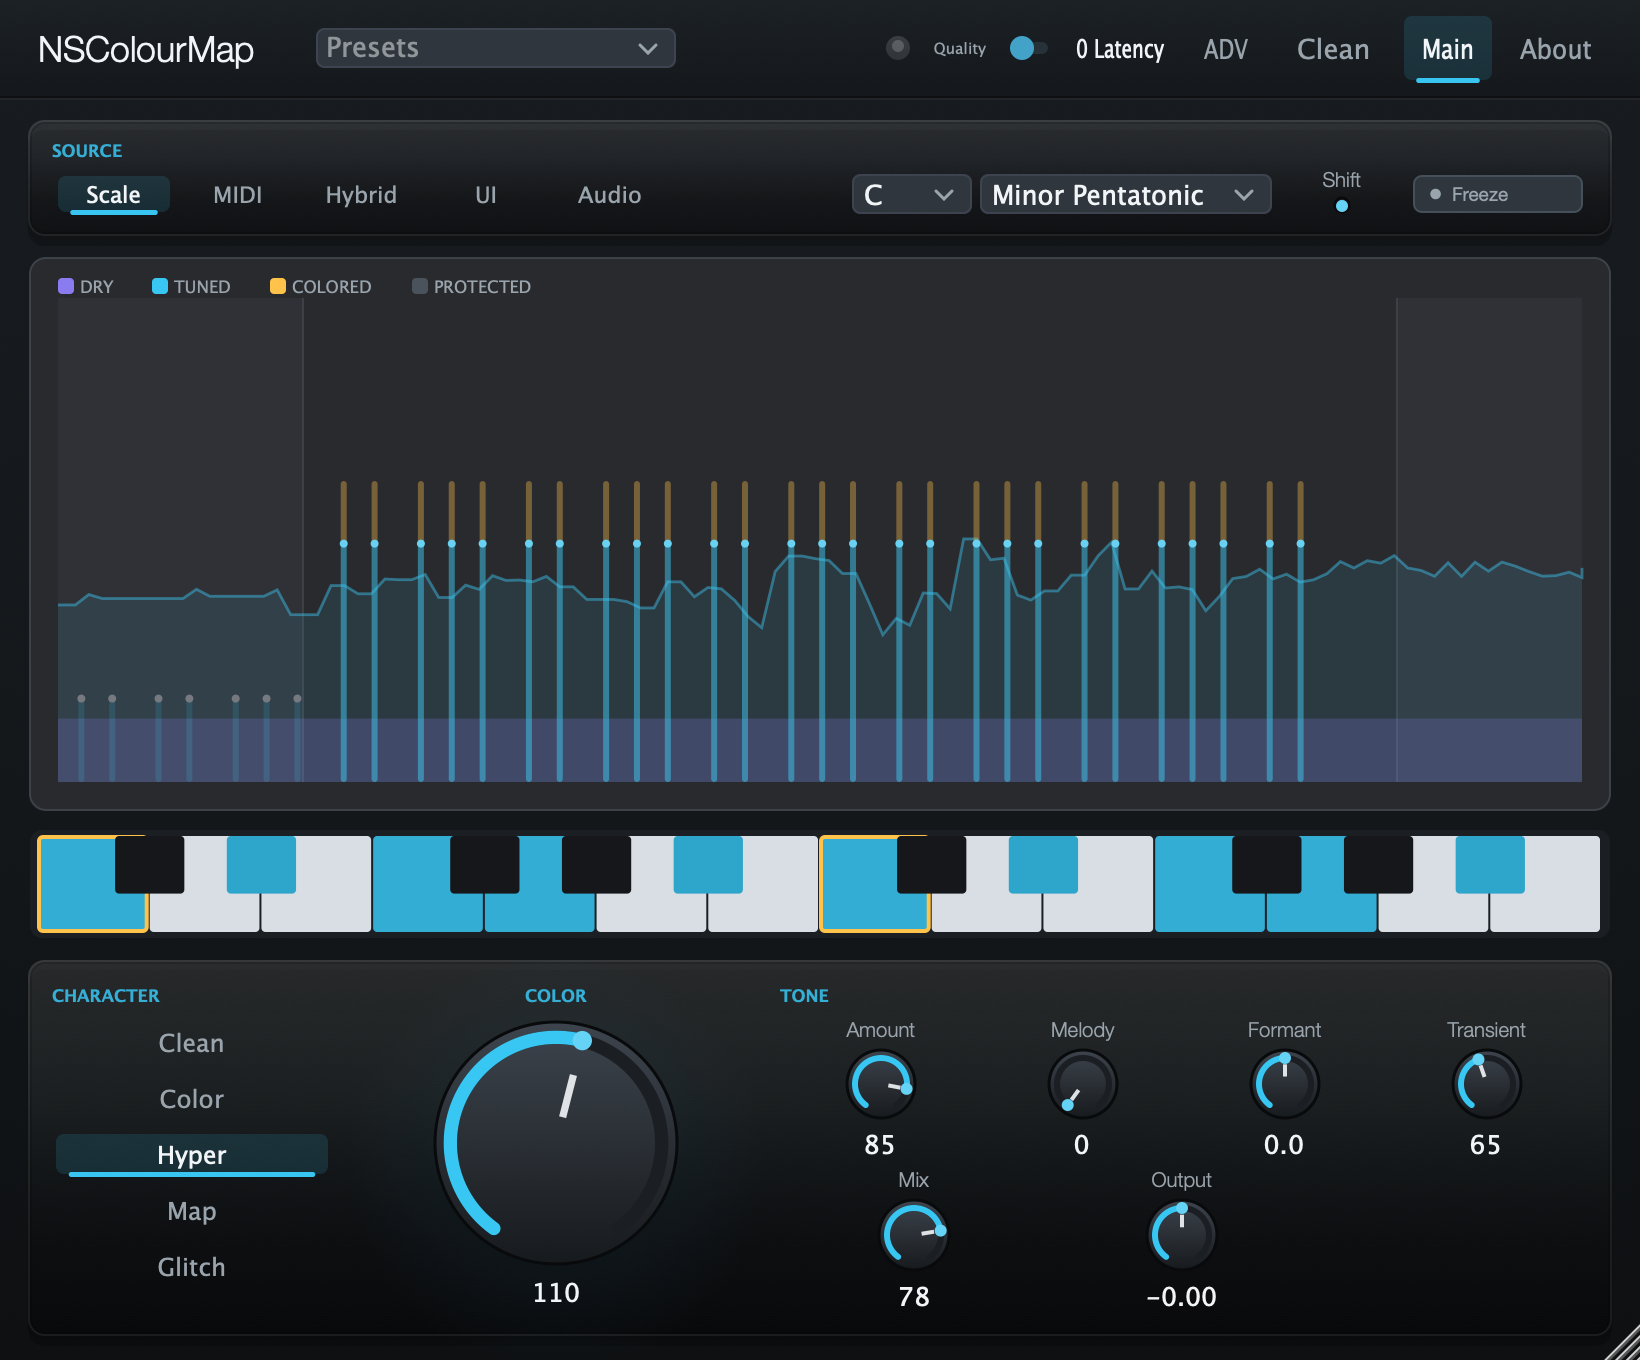
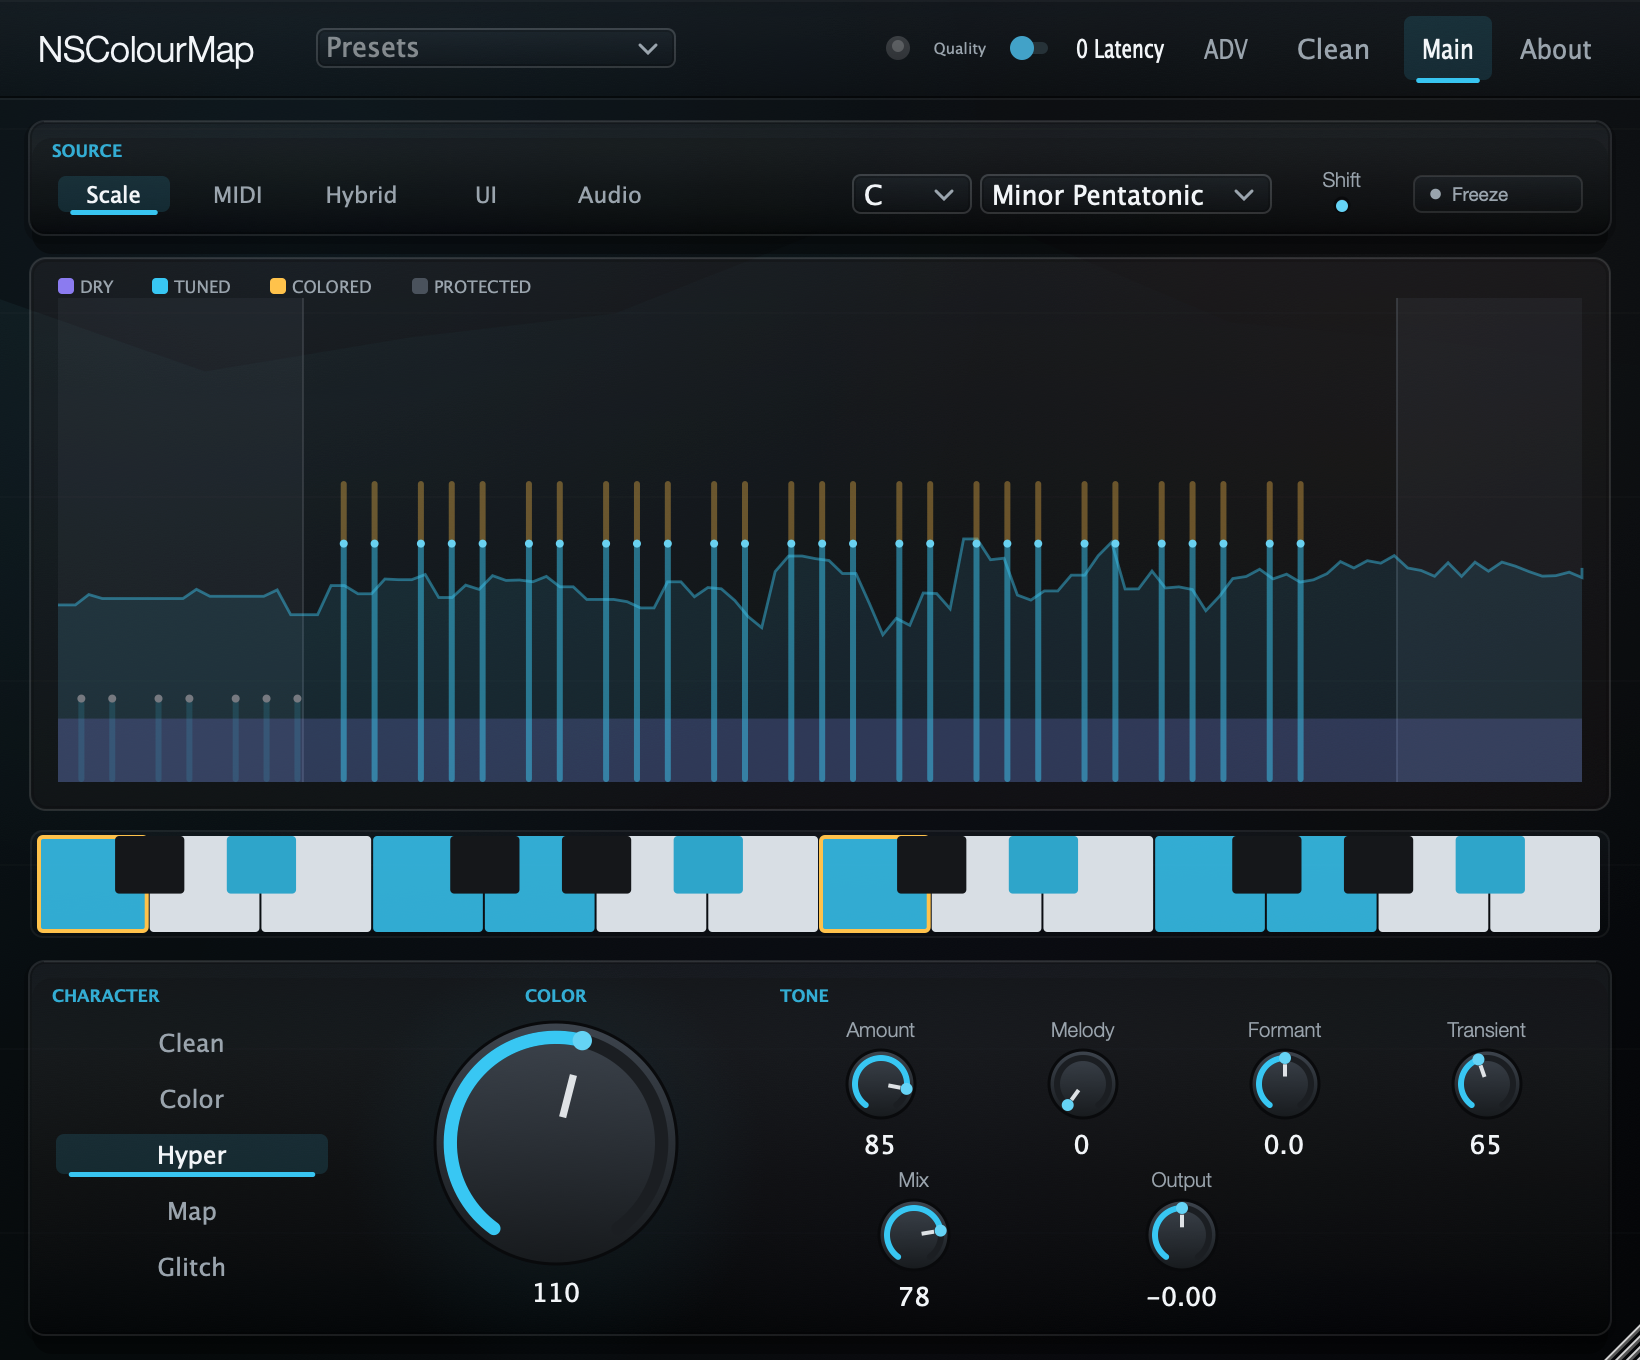
feat: modernize glass UI backdrop
Glass panels now sit over a restrained dark wallpaper backdrop with layered translucent material, softer depth shadows, and lighter edge treatment instead of the older flat white-gradient look. README screenshots are regenerated from the current editor.

Version 0.8.15.

diff --git a/Source/PluginEditor.cpp b/Source/PluginEditor.cpp
@@ -9,11 +9,11 @@
 
 namespace
 {
-const juce::Colour background  { 0xff15171a };
-const juce::Colour panel       { 0xff24282d };
-const juce::Colour panelLight  { 0xff30363d };
-const juce::Colour glassEdge   { 0x2effffff };
-const juce::Colour glassShadow { 0x4a000000 };
+const juce::Colour background  { 0xff0b0e11 };
+const juce::Colour panel       { 0xff1b2026 };
+const juce::Colour panelLight  { 0xff2b333d };
+const juce::Colour glassEdge   { 0x3effffff };
+const juce::Colour glassShadow { 0x7a000000 };
 const juce::Colour text        { 0xfff2f5f8 };
 const juce::Colour mutedText   { 0xff9aa4ad };
 const juce::Colour accent      { 0xff38c7f3 }; // TUNED (cyan)
@@ -53,30 +53,86 @@ void setChoice (juce::AudioProcessorValueTreeState& p, const char* id, int index
 
 float midiHz (float note) { return 440.0f * std::pow (2.0f, (note - 69.0f) / 12.0f); }
 
+void drawWallpaperBackdrop (juce::Graphics& g, juce::Rectangle<float> r)
+{
+    juce::ColourGradient base (juce::Colour { 0xff11161bu }, r.getX(), r.getY(),
+                               juce::Colour { 0xff050709u }, r.getX(), r.getBottom(), false);
+    base.addColour (0.44, juce::Colour { 0xff0b1015u });
+    base.addColour (0.78, juce::Colour { 0xff07090cu });
+    g.setGradientFill (base);
+    g.fillRect (r);
+
+    auto radial = [&] (juce::Colour c, float x, float y, float radius, float alpha)
+    {
+        juce::ColourGradient grad (c.withAlpha (alpha), x, y,
+                                   c.withAlpha (0.0f), x + radius, y - radius * 0.25f, true);
+        g.setGradientFill (grad);
+        g.fillEllipse (juce::Rectangle<float> (radius * 2.0f, radius * 2.0f).withCentre ({ x, y }));
+    };
+
+    radial (juce::Colour { 0xff2b5f72u }, r.getX() + r.getWidth() * 0.18f, r.getY() + r.getHeight() * 0.16f, r.getWidth() * 0.42f, 0.20f);
+    radial (juce::Colour { 0xff62432du }, r.getX() + r.getWidth() * 0.84f, r.getY() + r.getHeight() * 0.30f, r.getWidth() * 0.34f, 0.13f);
+    radial (juce::Colour { 0xff5d4d84u }, r.getX() + r.getWidth() * 0.58f, r.getY() + r.getHeight() * 0.88f, r.getWidth() * 0.48f, 0.10f);
+
+    juce::Path ribbon;
+    const float top = r.getY() + r.getHeight() * 0.22f;
+    ribbon.startNewSubPath (r.getX() - 40.0f, top);
+    for (int i = 0; i <= 8; ++i)
+    {
+        const float t = (float) i / 8.0f;
+        const float x = r.getX() + r.getWidth() * t;
+        const float y = top + std::sin (t * juce::MathConstants<float>::twoPi * 1.35f) * 34.0f
+                            + std::sin (t * juce::MathConstants<float>::twoPi * 3.1f) * 10.0f;
+        ribbon.lineTo (x, y);
+    }
+    ribbon.lineTo (r.getRight() + 40.0f, r.getBottom() + 40.0f);
+    ribbon.lineTo (r.getX() - 40.0f, r.getBottom() + 40.0f);
+    ribbon.closeSubPath();
+
+    juce::ColourGradient veil (juce::Colour { 0x145ec8d8u }, r.getX(), top,
+                               juce::Colour { 0x03000000u }, r.getRight(), r.getBottom(), false);
+    g.setGradientFill (veil);
+    g.fillPath (ribbon);
+
+    g.setColour (juce::Colours::white.withAlpha (0.018f));
+    for (int i = 0; i < 10; ++i)
+    {
+        const float y = r.getY() + 64.0f + (float) i * 92.0f;
+        g.drawHorizontalLine (juce::roundToInt (y), r.getX(), r.getRight());
+    }
+
+    g.setColour (juce::Colours::black.withAlpha (0.30f));
+    g.fillRect (r);
+}
+
 void drawLiquidPanel (juce::Graphics& g, juce::Rectangle<float> r, float radius = 8.0f)
 {
-    g.setColour (glassShadow.withAlpha (0.22f));
-    g.fillRoundedRectangle (r.translated (0.0f, 5.0f), radius);
-    g.setColour (juce::Colours::black.withAlpha (0.08f));
-    g.fillRoundedRectangle (r.expanded (1.0f).translated (0.0f, 1.0f), radius + 1.0f);
+    g.setColour (glassShadow.withAlpha (0.34f));
+    g.fillRoundedRectangle (r.translated (0.0f, 9.0f).expanded (-2.0f, 0.0f), radius + 2.0f);
+    g.setColour (juce::Colours::black.withAlpha (0.18f));
+    g.fillRoundedRectangle (r.expanded (2.0f).translated (0.0f, 2.0f), radius + 2.0f);
 
-    juce::ColourGradient material (juce::Colour { 0x18ffffffu }, r.getX(), r.getY(),
-                                   juce::Colour { 0x12000000u }, r.getX(), r.getBottom(), false);
-    material.addColour (0.34, juce::Colour { 0x1a8d99a3u });
-    material.addColour (0.74, juce::Colour { 0x1015171au });
+    juce::ColourGradient material (juce::Colour { 0x2a27313au }, r.getX(), r.getY(),
+                                   juce::Colour { 0x26101419u }, r.getX(), r.getBottom(), false);
+    material.addColour (0.22, juce::Colour { 0x203a4650u });
+    material.addColour (0.58, juce::Colour { 0x16161d23u });
+    material.addColour (1.0,  juce::Colour { 0x3005080bu });
     g.setGradientFill (material);
     g.fillRoundedRectangle (r, radius);
 
     const auto inner = r.reduced (1.0f);
-    juce::ColourGradient depth (juce::Colours::white.withAlpha (0.012f), inner.getX(), inner.getY(),
-                                juce::Colours::black.withAlpha (0.055f), inner.getX(), inner.getBottom(), false);
+    juce::ColourGradient depth (juce::Colours::white.withAlpha (0.040f), inner.getX(), inner.getY(),
+                                juce::Colours::black.withAlpha (0.14f), inner.getX(), inner.getBottom(), false);
     g.setGradientFill (depth);
     g.fillRoundedRectangle (inner, radius - 1.0f);
 
-    g.setColour (juce::Colours::white.withAlpha (0.070f));
+    g.setColour (juce::Colours::white.withAlpha (0.085f));
     g.drawRoundedRectangle (r.reduced (0.5f), radius, 1.0f);
 
-    g.setColour (juce::Colours::black.withAlpha (0.16f));
+    g.setColour (juce::Colours::white.withAlpha (0.060f));
+    g.drawLine (r.getX() + radius, r.getY() + 1.0f, r.getRight() - radius, r.getY() + 1.0f, 1.0f);
+
+    g.setColour (juce::Colours::black.withAlpha (0.22f));
     g.drawRoundedRectangle (r.reduced (1.5f), radius - 1.0f, 1.0f);
 }
 } // namespace
@@ -133,10 +189,14 @@ void NSColourMapLookAndFeel::drawComboBox (juce::Graphics& g, int width, int hei
                                           int, int, int, int, juce::ComboBox&)
 {
     const auto bounds = juce::Rectangle<float> (0.0f, 0.0f, (float) width, (float) height);
-    g.setColour (panelLight);
+    juce::ColourGradient fill (juce::Colour { 0x42394752u }, bounds.getX(), bounds.getY(),
+                               juce::Colour { 0x2b161b21u }, bounds.getX(), bounds.getBottom(), false);
+    g.setGradientFill (fill);
     g.fillRoundedRectangle (bounds, 4.0f);
-    g.setColour (juce::Colour { 0xff3d4450u });
+    g.setColour (juce::Colours::white.withAlpha (0.14f));
     g.drawRoundedRectangle (bounds.reduced (0.5f), 4.0f, 1.0f);
+    g.setColour (juce::Colours::black.withAlpha (0.18f));
+    g.drawRoundedRectangle (bounds.reduced (1.5f), 3.0f, 1.0f);
 
     const float cx = (float) width - 14.0f;
     const float cy = (float) height * 0.5f;
@@ -210,10 +270,16 @@ void NSColourMapLookAndFeel::drawToggleButton (juce::Graphics& g, juce::ToggleBu
     float hov = highlighted ? 1.0f : 0.0f;
     if (auto* at = dynamic_cast<AnimatedToggle*> (&button)) { sel = at->sel; hov = at->hover; }
 
-    const auto base = panelLight.brighter (0.1f * hov);
-    g.setColour (base.overlaidWith (accent.withAlpha (0.22f * sel)));
+    juce::ColourGradient base (juce::Colour { 0x3a34404au }.brighter (0.08f * hov), bounds.getX(), bounds.getY(),
+                               juce::Colour { 0x24101418u }, bounds.getX(), bounds.getBottom(), false);
+    g.setGradientFill (base);
     g.fillRoundedRectangle (bounds, 4.0f);
-    g.setColour (juce::Colour { 0xff46505au }.overlaidWith (accent.withAlpha (sel)));
+    if (sel > 0.001f)
+    {
+        g.setColour (accent.withAlpha (0.14f * sel));
+        g.fillRoundedRectangle (bounds.reduced (1.0f), 3.5f);
+    }
+    g.setColour (juce::Colours::white.withAlpha (0.11f + 0.16f * sel));
     g.drawRoundedRectangle (bounds, 4.0f, 1.0f + 0.8f * sel);
 
     // Tick dot grows + brightens as it turns on.
@@ -254,10 +320,15 @@ float VisualizerView::freqToX (float hz, juce::Rectangle<float> plot) const
 void VisualizerView::paint (juce::Graphics& g)
 {
     const auto bounds = getLocalBounds().toFloat().reduced (1.0f);
-    g.setColour (panel);
+    juce::ColourGradient glass (juce::Colour { 0x382a323au }, bounds.getX(), bounds.getY(),
+                                juce::Colour { 0x24101418u }, bounds.getX(), bounds.getBottom(), false);
+    glass.addColour (0.45, juce::Colour { 0x20202a32u });
+    g.setGradientFill (glass);
     g.fillRoundedRectangle (bounds, 8.0f);
-    g.setColour (juce::Colour { 0xff3a4149u });
+    g.setColour (juce::Colours::white.withAlpha (0.12f));
     g.drawRoundedRectangle (bounds, 8.0f, 1.0f);
+    g.setColour (juce::Colours::black.withAlpha (0.20f));
+    g.drawRoundedRectangle (bounds.reduced (1.5f), 7.0f, 1.0f);
 
     const auto plot = bounds.reduced (14.0f, 14.0f).withTrimmedTop (6.0f);
 
@@ -443,8 +514,12 @@ void KeyboardView::mouseDown (const juce::MouseEvent& e)
 void KeyboardView::paint (juce::Graphics& g)
 {
     const auto bounds = getLocalBounds().toFloat().reduced (1.0f);
-    g.setColour (juce::Colour { 0xff1b1e22u });
+    juce::ColourGradient bed (juce::Colour { 0x322b333bu }, bounds.getX(), bounds.getY(),
+                              juce::Colour { 0x27080b0eu }, bounds.getX(), bounds.getBottom(), false);
+    g.setGradientFill (bed);
     g.fillRoundedRectangle (bounds, 6.0f);
+    g.setColour (juce::Colours::white.withAlpha (0.055f));
+    g.drawRoundedRectangle (bounds.reduced (0.5f), 6.0f, 1.0f);
 
     const auto mask = processor.getTargetMask();
     const auto held = processor.getHeldMask();
@@ -785,21 +860,20 @@ void NSColourMapAudioProcessorEditor::timerCallback()
 
 void NSColourMapAudioProcessorEditor::paint (juce::Graphics& g)
 {
-    g.fillAll (background);
-
-    juce::ColourGradient bg (juce::Colour { 0xff181c20u }, 0.0f, 0.0f,
-                             juce::Colour { 0xff0e1012u }, 0.0f, (float) getHeight(), false);
-    bg.addColour (0.55, juce::Colour { 0xff14181bu });
-    g.setGradientFill (bg);
-    g.fillAll();
+    drawWallpaperBackdrop (g, getLocalBounds().toFloat());
 
     auto bounds = getLocalBounds();
-    g.setGradientFill (juce::ColourGradient (juce::Colour { 0x6622282eu }, 0.0f, 0.0f,
-                                             juce::Colour { 0x66101214u }, 0.0f, 48.0f, false));
-    g.fillRect (bounds.removeFromTop (48));
-    g.setColour (juce::Colours::black.withAlpha (0.48f));
+    const auto topBar = bounds.removeFromTop (48).toFloat();
+    juce::ColourGradient topGlass (juce::Colour { 0x44252d35u }, 0.0f, topBar.getY(),
+                                   juce::Colour { 0x35101418u }, 0.0f, topBar.getBottom(), false);
+    topGlass.addColour (0.18, juce::Colour { 0x302f3a44u });
+    g.setGradientFill (topGlass);
+    g.fillRect (topBar);
+    g.setColour (juce::Colours::white.withAlpha (0.035f));
+    g.drawHorizontalLine (0, 0.0f, (float) getWidth());
+    g.setColour (juce::Colours::black.withAlpha (0.52f));
     g.drawHorizontalLine (48, 0.0f, (float) getWidth());
-    g.setColour (juce::Colours::white.withAlpha (0.045f));
+    g.setColour (juce::Colours::white.withAlpha (0.055f));
     g.drawHorizontalLine (49, 0.0f, (float) getWidth());
 
     // MIDI LED
@@ -875,7 +949,7 @@ void NSColourMapAudioProcessorEditor::paint (juce::Graphics& g)
         g.fillRoundedRectangle (badge, 5.0f);
         g.setColour (accent);
         g.setFont (sectionFont());
-        g.drawText ("v0.8.14", badge.toNearestInt(), juce::Justification::centred);
+        g.drawText ("v0.8.15", badge.toNearestInt(), juce::Justification::centred);
         area.removeFromTop (34);
 
         g.setColour (panelLight.brighter (0.1f));
